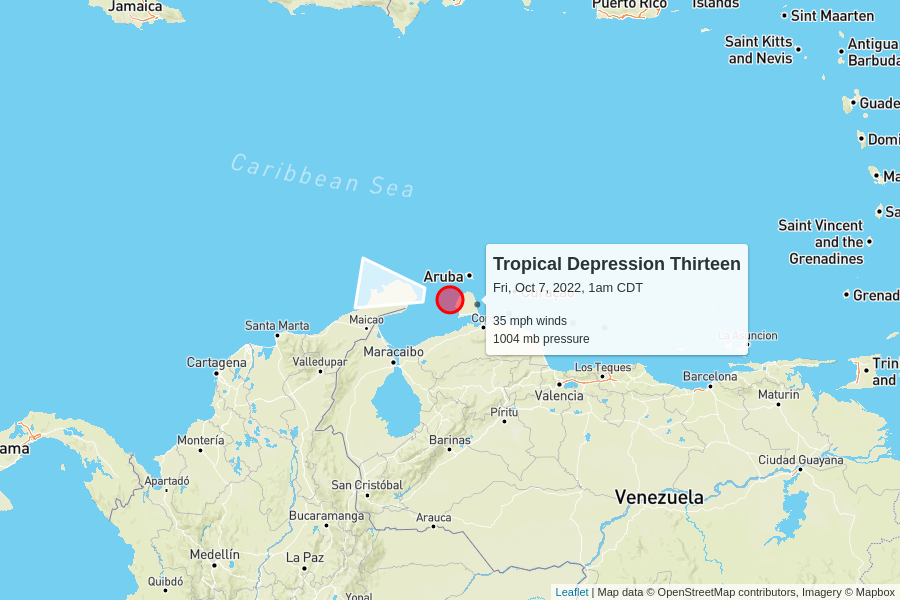
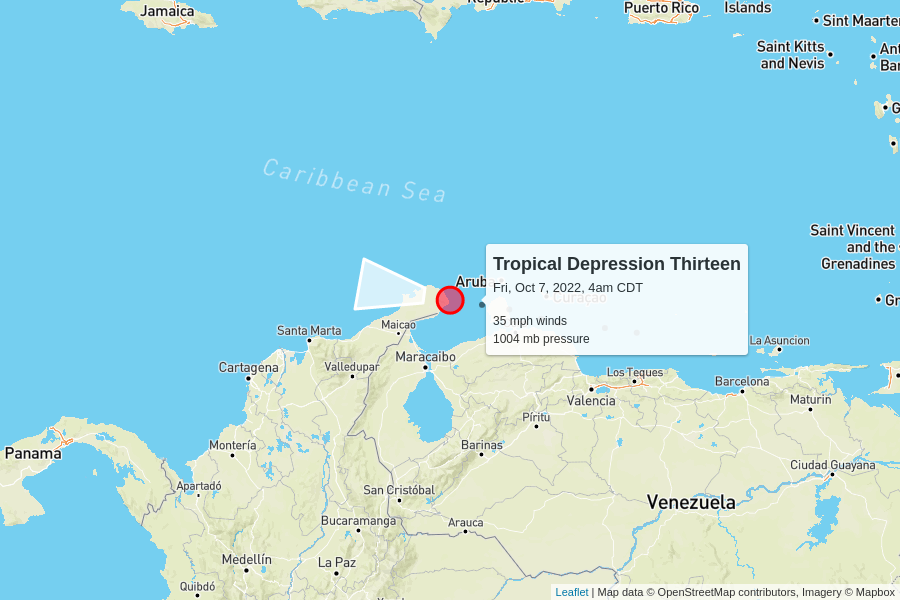
automatic update

diff --git a/docs/index.html b/docs/index.html
@@ -100,7 +100,7 @@
         <td colspan="6" class="storm category-0" >
           <h2>
             Tropical Depression Thirteen
-            <p class="updated">last updated <span data-time>2022-10-07T06:00:00.000Z</span></p>
+            <p class="updated">last updated <span data-time>2022-10-07T09:00:00.000Z</span></p>
           </h2>
         </td>
       </tr>
